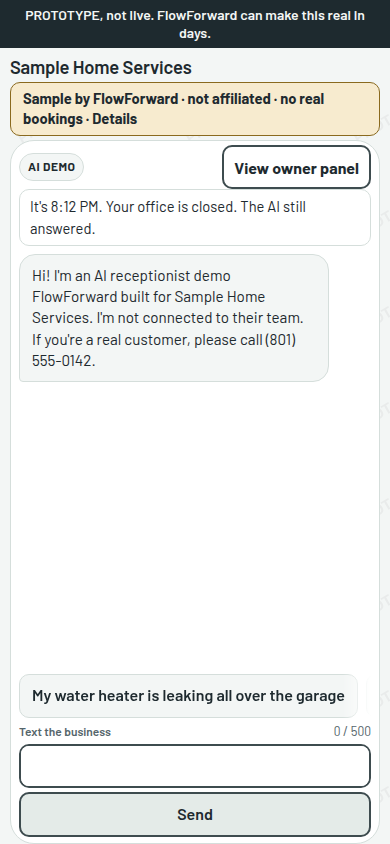
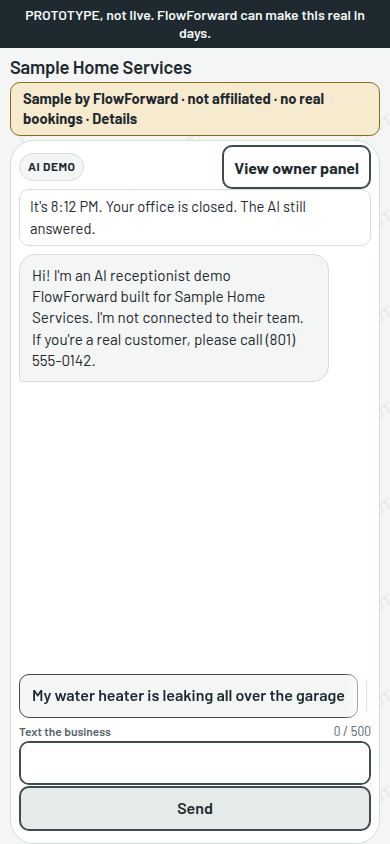
fix(web): keep live chat suggestions on one row
A chip tap replaces that row instead of adding Earlier suggestions, and composer padding keeps Send's border and focus ring inside the frame. Chip borders move to #3E4C4F.

Changed region(s): [[0.0308, 0.9242, 0.9538, 1.0], [0.0615, 0.8626, 0.9538, 0.8934], [0.0308, 0.8009, 0.0615, 0.8318]]

diff --git a/web/src/live-chat/live-chat.test.jsx b/web/src/live-chat/live-chat.test.jsx
@@ -241,11 +241,10 @@ describe('live chat demo', () => {
     expect(lead).not.toHaveTextContent('leaking');
     expect(screen.getByRole('heading', { name: 'Urgency' }).closest('article')).toHaveTextContent('emergency');
     expect(screen.getByRole('heading', { name: 'Mock alert, not sent' }).closest('article')).toHaveTextContent('Nothing left this page.');
-    const earlier = container.querySelector('.live-chat-earlier');
-    expect(earlier).not.toBeNull();
-    expect(earlier.open).toBe(false);
-    expect(earlier.textContent).toContain('My water heater is leaking all over the garage');
+    expect(container.querySelector('.live-chat-earlier')).toBeNull();
+    expect(screen.queryByText('Earlier suggestions')).not.toBeInTheDocument();
     expect(container.querySelector('.live-chat-chip-row > [data-chip="chip_emergency"]')).toBeNull();
+    expect(container.querySelectorAll('.live-chat-chip-row > .live-chat-chip')).toHaveLength(4);
     expect(screen.getByText(DISCLOSURE)).toBeInTheDocument();
     expect(screen.getByText(BANNER)).toBeInTheDocument();
 
@@ -398,6 +397,7 @@ describe('live chat demo', () => {
     expect(threadRule).toContain('min-height: 200px');
     expect(threadRule).toContain('overflow-y: auto');
     expect(threadRule).not.toContain('42dvh');
+    expect(css).toMatch(/\.live-chat-chip \{[^}]*border-color:\s*#3E4C4F/);
     expect(css).toMatch(/\.live-chat-chip-row \{[^}]*flex-wrap:\s*nowrap/);
     expect(css).toMatch(/\.live-chat-chip-row \{[^}]*overflow-x:\s*auto/);
     expect(css).toContain('mask-image: linear-gradient(to right');

diff --git a/web/src/live-chat/LiveChatDemo.jsx b/web/src/live-chat/LiveChatDemo.jsx
@@ -219,7 +219,6 @@ export default function LiveChatDemo({ brandInput = SAMPLE_BRAND }) {
   }
 
   const unused = chips.filter((chip) => !usedChips.has(chip.id));
-  const spent = chips.filter((chip) => usedChips.has(chip.id));
   const limitText = remaining === 0
     ? `Character limit reached. ${MAX_MESSAGE_CHARS} of ${MAX_MESSAGE_CHARS}.`
     : `${remaining} characters left.`;
@@ -300,22 +299,6 @@ export default function LiveChatDemo({ brandInput = SAMPLE_BRAND }) {
                     </button>
                   ))}
                 </div>
-                {spent.length > 0 ? (
-                  <details className="live-chat-earlier">
-                    <summary className="live-chat-expand">Earlier suggestions</summary>
-                    {spent.map((chip) => (
-                      <button
-                        key={chip.id}
-                        type="button"
-                        className="live-chat-chip"
-                        data-chip={chip.id}
-                        onClick={() => pushTurn(chip.label, chip.id)}
-                      >
-                        {chip.label}
-                      </button>
-                    ))}
-                  </details>
-                ) : null}
               </div>
               <div className="live-chat-compose">
                 <div className="live-chat-compose-head">

diff --git a/web/src/styles.css b/web/src/styles.css
@@ -910,11 +910,17 @@ label > .input { color: var(--ink); font-weight: 400; font-size: 1rem; }
 .live-chat-chip, .live-chat-action {
   background: var(--paper); color: var(--ink); border: 1px solid var(--line);
 }
-.live-chat-chip { width: auto; flex: 0 0 auto; max-width: none; white-space: nowrap; }
+.live-chat-chip { width: auto; flex: 0 0 auto; max-width: none; white-space: nowrap; border-color: #3E4C4F; }
 .live-chat-chip:focus-visible, .live-chat-action:focus-visible, .live-chat-send:focus-visible {
   outline: 2px solid var(--ink); outline-offset: 2px;
 }
-.live-chat-compose { display: flex; flex-direction: column; gap: 4px; }
+.live-chat-compose {
+  display: flex;
+  flex-direction: column;
+  gap: 1px;
+  /* Keeps the 2px Send border and its 2px focus ring inside the frame. */
+  padding-bottom: 6px;
+}
 .live-chat-compose-head { display: flex; align-items: baseline; justify-content: space-between; gap: 8px; min-height: 0; }
 .live-chat-label { font-size: .75rem; line-height: 1.2; font-weight: 600; }
 .live-chat-input {
